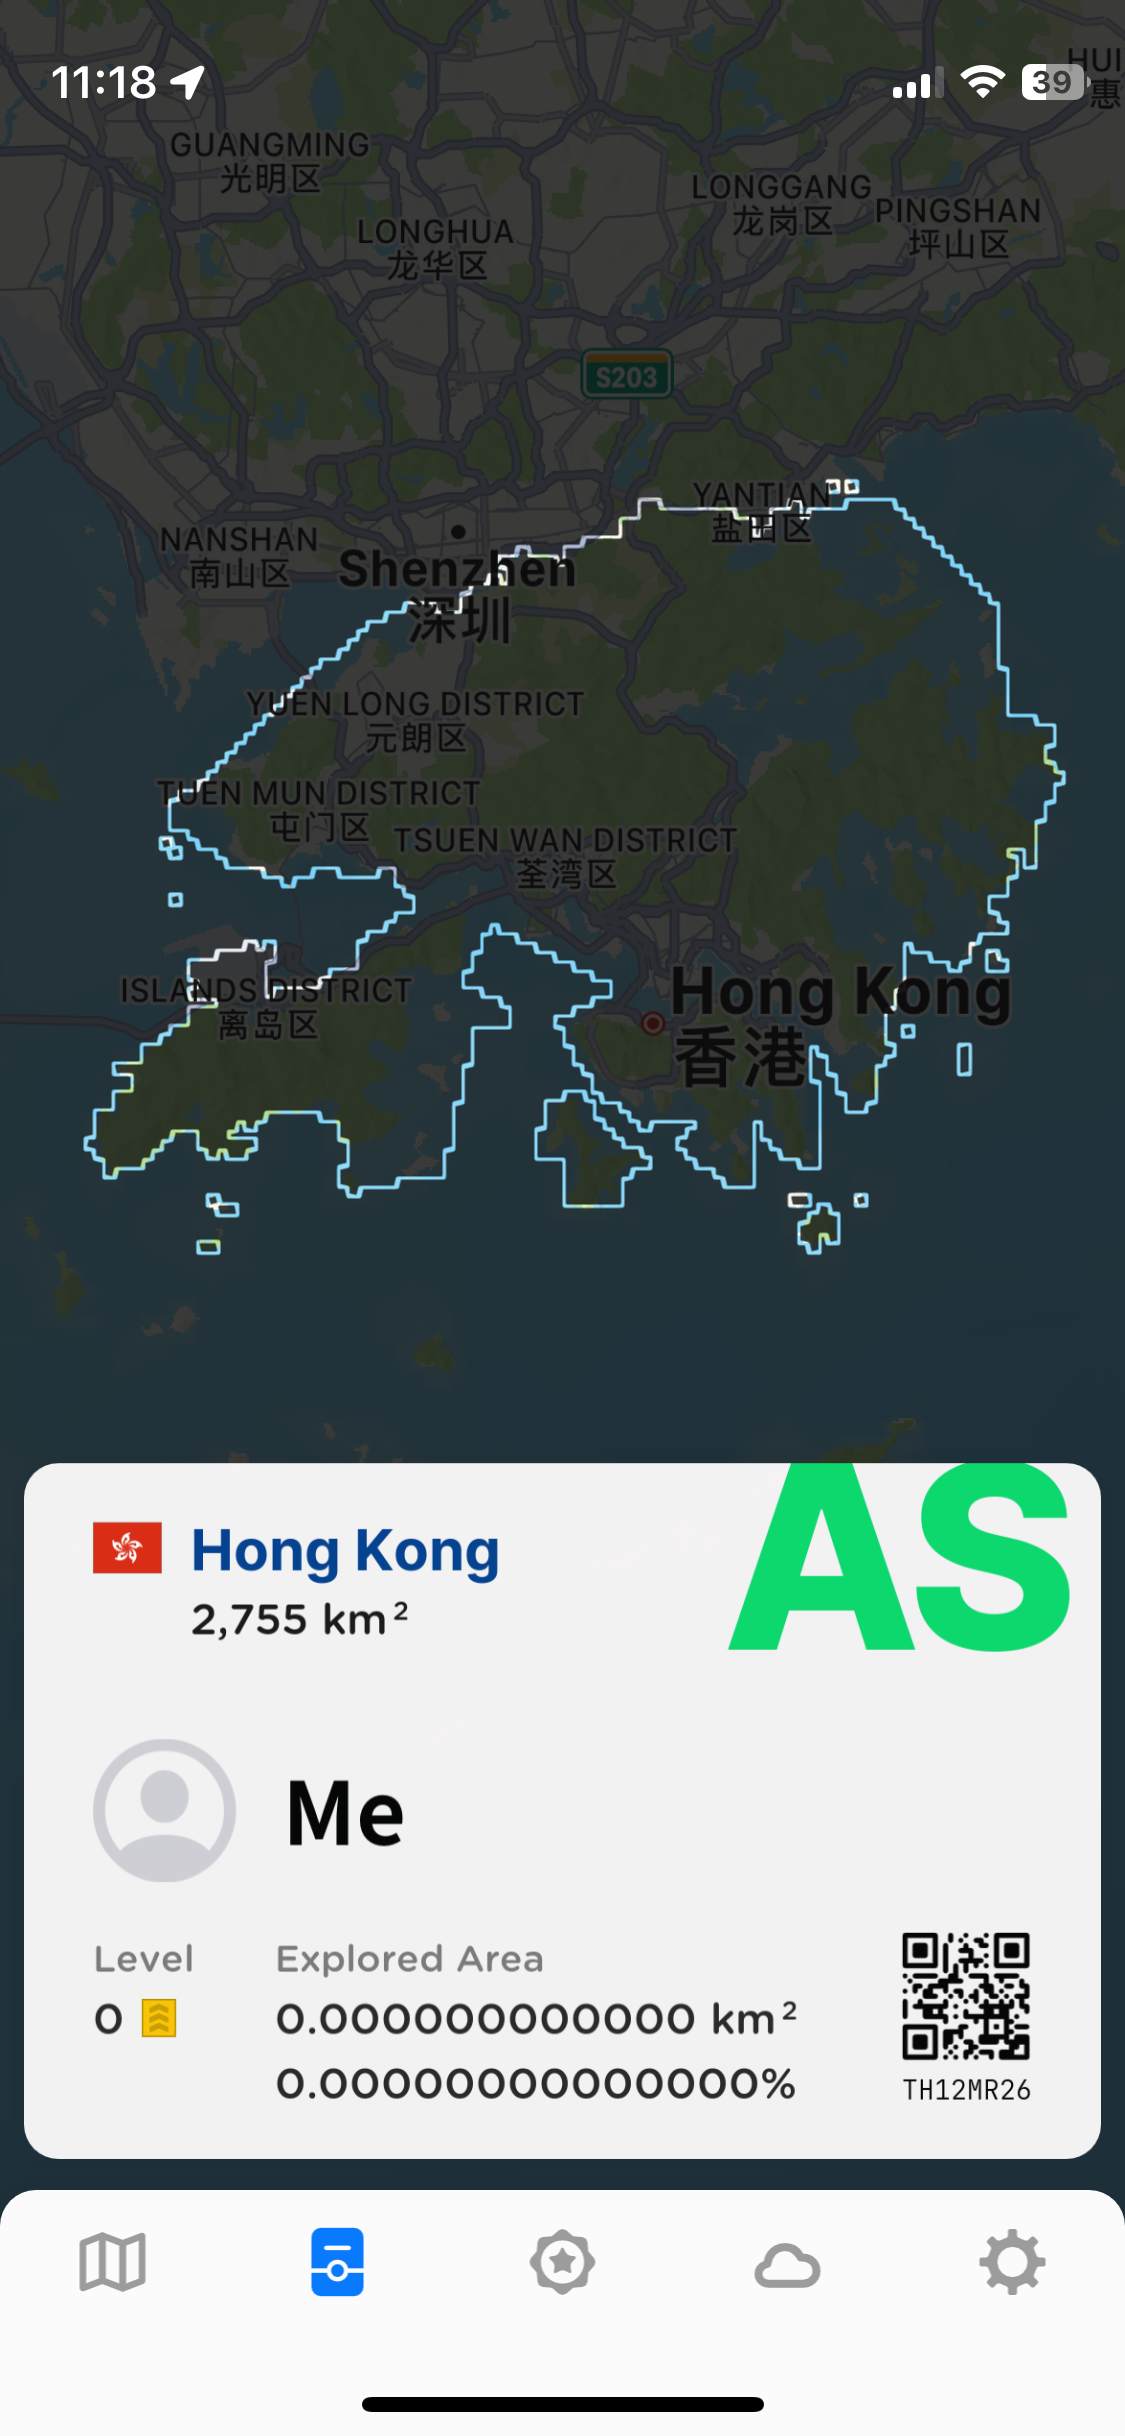
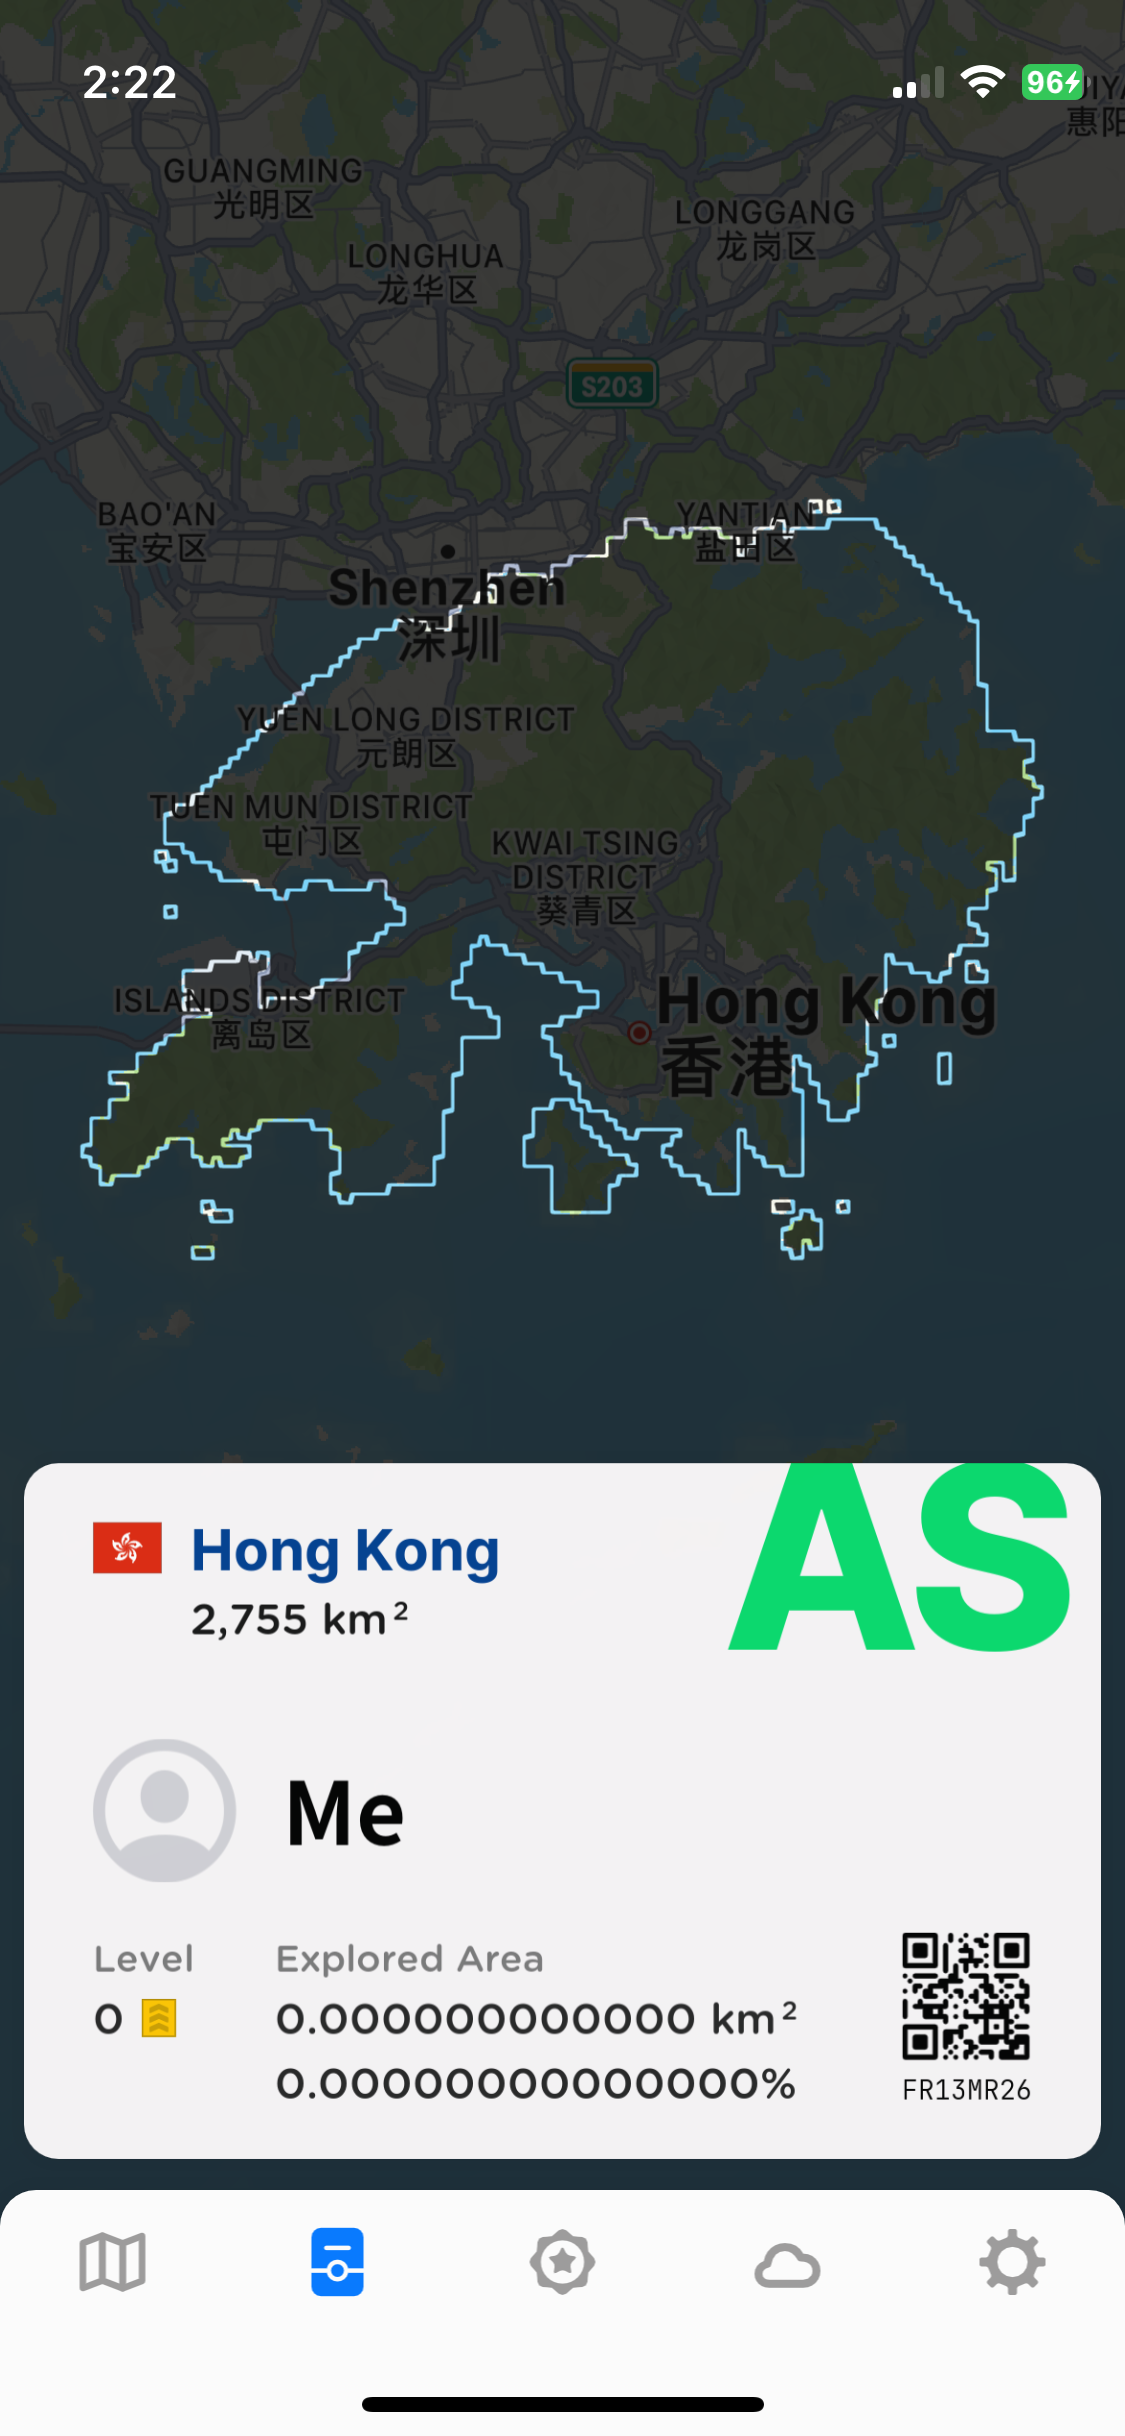
HKG -3 blocks

diff --git a/README.md b/README.md
@@ -6,12 +6,13 @@ Currently included:
 | Code | Name | Number of blocks covered<sup>**1**</sup> | Maximum explorable area (*km<sup>2</sup>*) | Area required for 100% progress (*km<sup>2</sup>*)|Explorable  / 100%  |
 |------|------|------|------|------|------|
 | [GIB](https://github.com/garfieldw33/fog-of-world-custom-boundaries/tree/main/Boundaries/GIB_Gibraltar)| Gibraltar | 36 | 8.780 |6.8 |129%|
-| [HKG](https://github.com/garfieldw33/fog-of-world-custom-boundaries/tree/main/Boundaries/HKG_Hong_Kong_SAR_China)| Hong Kong SAR | >4000 | 1491 |2755 (not achievable) |54%|
+| [HKG](https://github.com/garfieldw33/fog-of-world-custom-boundaries/tree/main/Boundaries/HKG_Hong_Kong_SAR_China)| Hong Kong SAR ⚠ | >4500⚠ | 1491 |2755 (not achievable) |54%|
 | [MAC](https://github.com/garfieldw33/fog-of-world-custom-boundaries/tree/main/Boundaries/MAC_Macau_SAR_China) | Macau SAR | 153 | 49.07 |30.3 |162%|
 | [MCO](https://github.com/garfieldw33/fog-of-world-custom-boundaries/tree/main/Boundaries/MCO_Monaco) | Monaco | 14 | 2.733 | 2.02  |135%|
 | [VAT](https://github.com/garfieldw33/fog-of-world-custom-boundaries/tree/main/Boundaries/VAT_Vantican_City) | Vatican City | 2  | 0.4143 | 0.44 (not achievable)  |94%|
 
 * <sup>1</sup>- A block is a 64*64-pixel box in FoW, each labeled with **one region**, and has explorable area of ~0.XX km<sup>2</sup> (depending on the latitude). 
+* ⚠ HKG: Current Hong Kong snapshots includes 21 blocks NOT counting towards that region, but we are unable to locate them among the total of over 4,500 blocks at this moment.
 
 
 Description:
